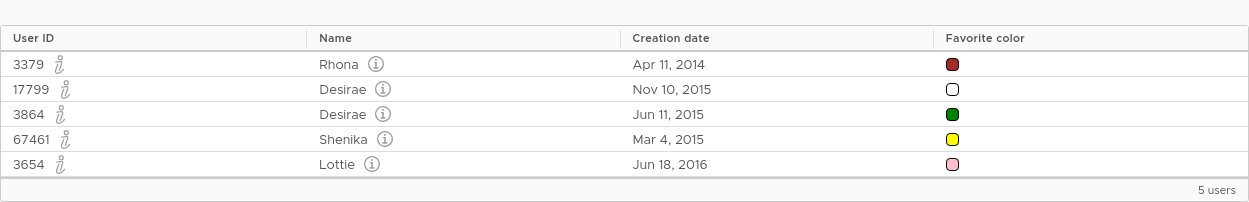
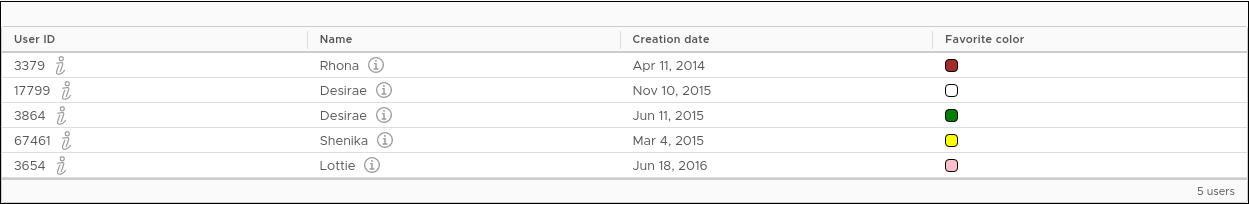
Test for reference image sanity.

diff --git a/gemini/tests/set2/datagrid-compact.js b/gemini/tests/set2/datagrid-compact.js
@@ -6,9 +6,6 @@ let geminiSuiteFor = (suiteElementId, additionalCaptures = {}) => {
     let execJSFuncInBrowserScope = new Function("window", `document.getElementById('${suiteElementId}').scrollIntoView();`);
 
     return gemini.suite(suiteElementId, (child) => {
-        if(suiteElementId === "datagrid-compact-with-signpost") {
-            child.setTolerance(15);
-        }
         Object.keys(additionalCaptures).reduce((fromPrevCapture, captureName) => {
             return fromPrevCapture.capture(captureName, additionalCaptures[captureName]);
         }, child.setUrl("/datagrid/compact")

diff --git a/src/app/datagrid/compact/compact.html b/src/app/datagrid/compact/compact.html
@@ -396,7 +396,7 @@
 </div>
 
 <h3>Rows with Signpost</h3>
-<div id="datagrid-compact-with-signpost">
+<div id="datagrid-compact-with-signpost" style="margin: 0.5rem 0; border: 1px solid #000">
     <clr-datagrid class="datagrid-compact">
         <clr-dg-column>User ID</clr-dg-column>
         <clr-dg-column>Name</clr-dg-column>
